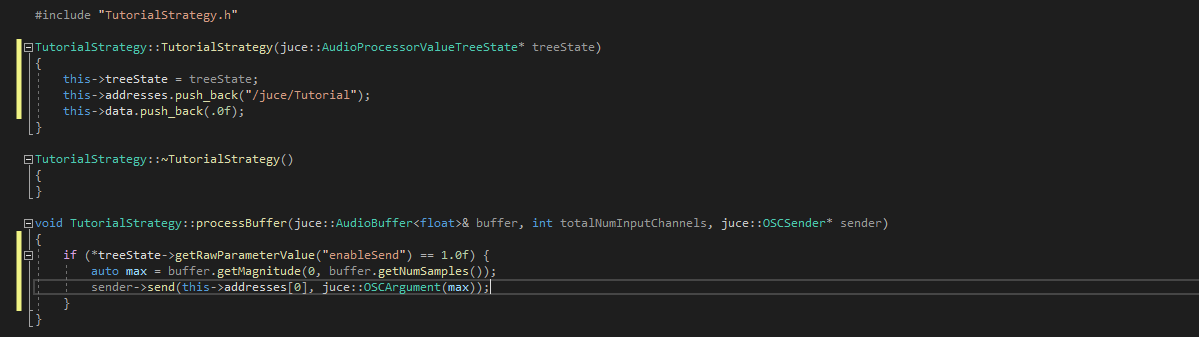
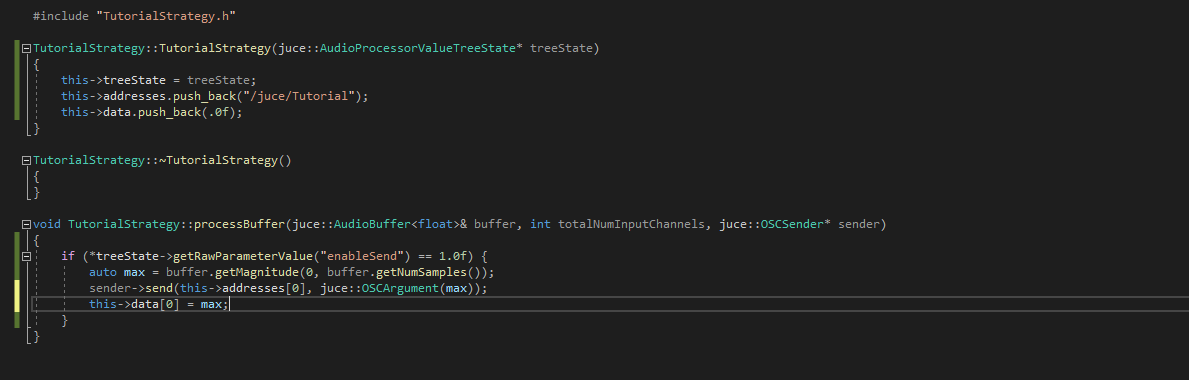
tutorial done

diff --git a/JUCE_plugin/Source/PluginProcessor.cpp b/JUCE_plugin/Source/PluginProcessor.cpp
@@ -269,6 +269,13 @@ Strategy* Festivalle21AudioProcessor::getStrategy()
 
 void Festivalle21AudioProcessor::changeStrategy(int strat)
 {
+    /*this control is needed since the analisys strategies implementing a neural network must be allocated in the constructor and 
+    can't be dinamically allocated*/
+    if (this->analisysStrategy->getAddresses()[0] != "/juce/RGB/R") {
+        if (this->analisysStrategy->getAddresses()[0] != "/juce/AV/A") {
+            delete this->analisysStrategy;
+        }
+    }
 
     switch (strat) {
     case 0:
@@ -277,6 +284,8 @@ void Festivalle21AudioProcessor::changeStrategy(int strat)
     case 1:
         this->analisysStrategy = this->CMStrategy;
         break;
+    case 2:
+        this->analisysStrategy = new TutorialStrategy(&this->treeState);
     default:
         break;
     }

diff --git a/py/osc_receiver.py b/py/osc_receiver.py
@@ -7,14 +7,13 @@ import argparse
 if __name__ == "__main__":
     parser = argparse.ArgumentParser()
     parser.add_argument("--ip",
-                        default="192.168.1.9", help="The ip to listen on")
+                        default="127.0.0.1", help="The ip to listen on")
     parser.add_argument("--port",
                         type=int, default=5005, help="The port to listen on")
     args = parser.parse_args()
 
     dispatcher = dispatcher.Dispatcher()
-    dispatcher.map("/juce/RGB", print)
-    dispatcher.map("/juce/RMS", print)
+    dispatcher.map("/juce/Tutorial", print)
 
     server = osc_server.ThreadingOSCUDPServer(
         (args.ip, args.port), dispatcher)

diff --git a/JUCE_plugin/Source/TutorialStrategy.cpp b/JUCE_plugin/Source/TutorialStrategy.cpp
@@ -26,5 +26,6 @@ void TutorialStrategy::processBuffer(juce::AudioBuffer<float>& buffer, int total
     if (*treeState->getRawParameterValue("enableSend") == 1.0f) {
         auto max = buffer.getMagnitude(0, buffer.getNumSamples());
         sender->send(this->addresses[0], juce::OSCArgument(max));
+        this->data[0] = max;
     }
 }

diff --git a/JUCE_plugin/Source/PluginProcessor.h b/JUCE_plugin/Source/PluginProcessor.h
@@ -13,6 +13,7 @@
 #include <string>
 #include "ArousalValenceStrategy.h"
 #include "ColourMappingStrategy.h"
+#include "TutorialStrategy.h"
 
 #define PI 3.14159265
 #define BUFFER_SIZE 22050 //500 ms at 44.1kHz
